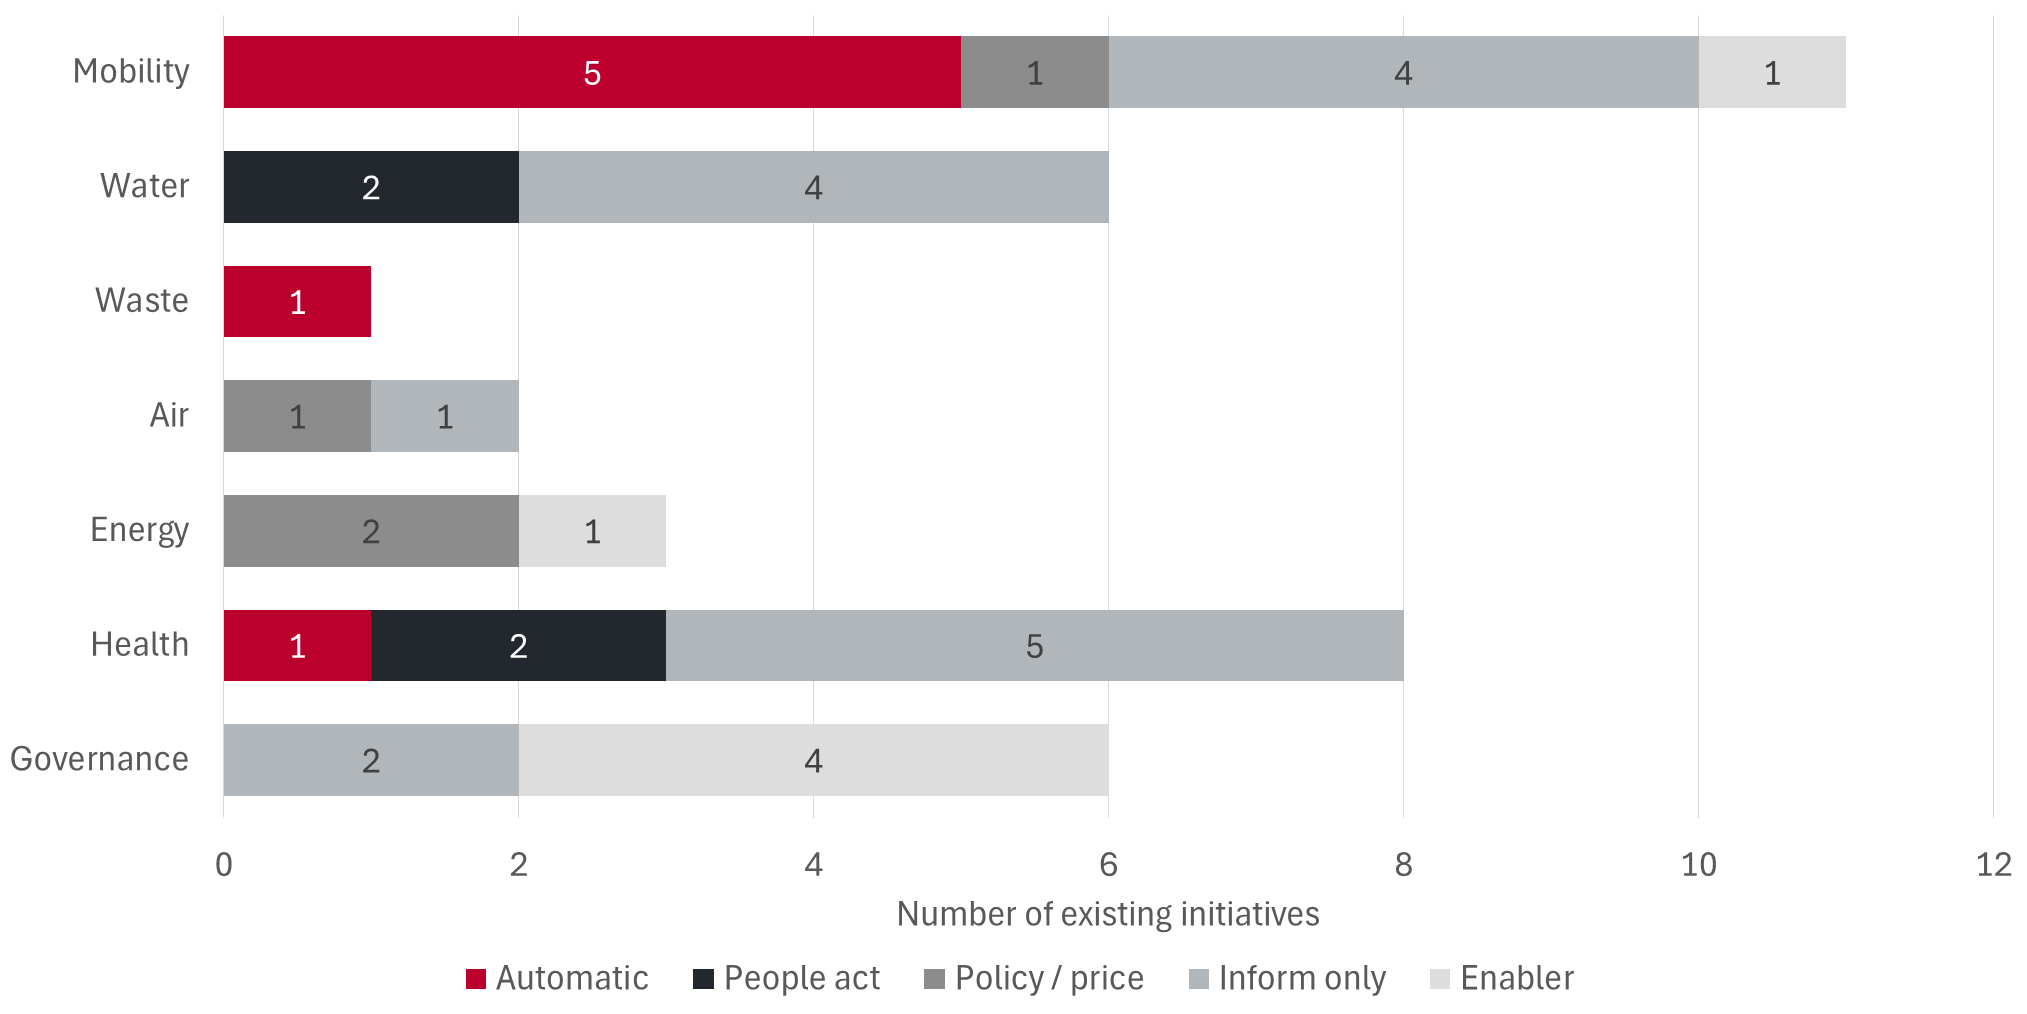
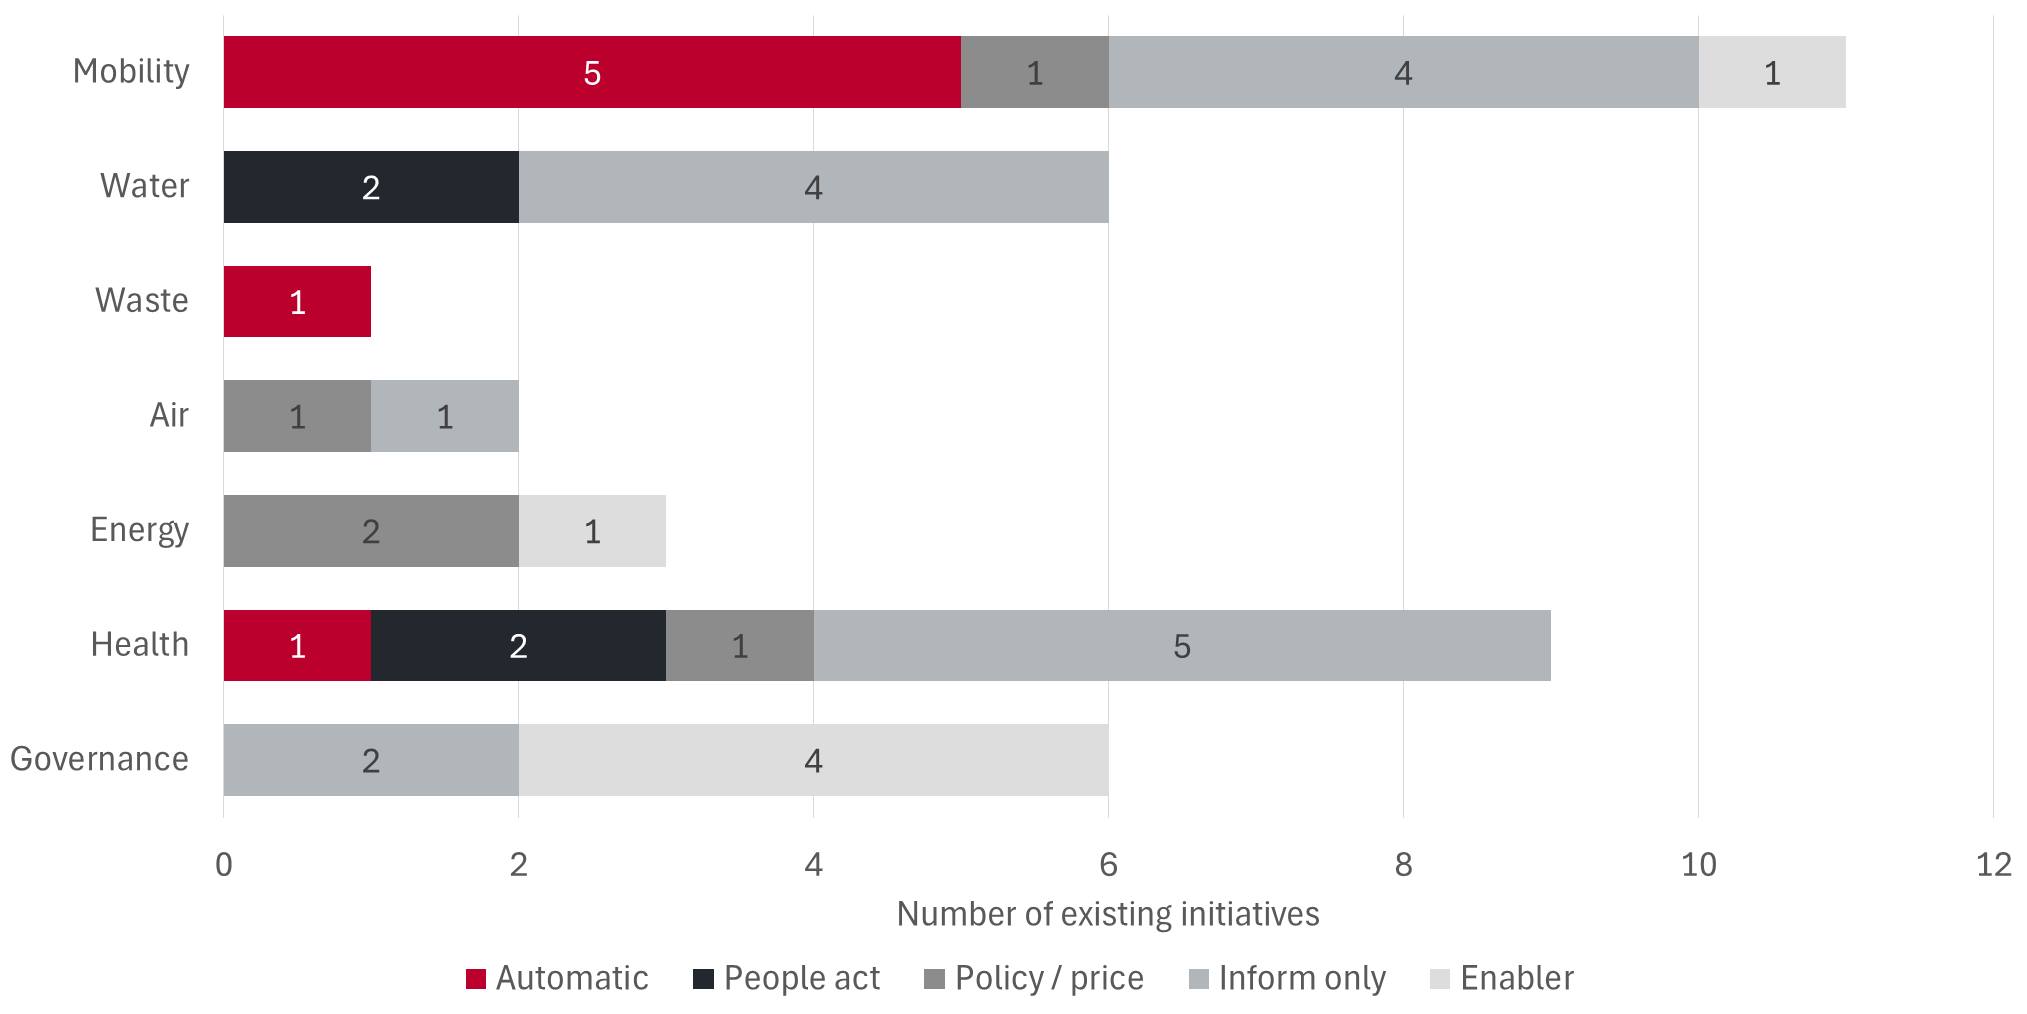
SmaGO loop diagram; initiatives chart updated with Hachi-san-Po; README lists all three diagrams

Changed region(s): [[0.6838, 0.5809, 0.777, 0.6726], [0.3108, 0.5809, 0.404, 0.6726]]

diff --git a/README.md b/README.md
@@ -30,12 +30,13 @@ All transport data is from [ODPT](https://developer.odpt.org/), Tokyo's public t
 
 **Diagrams and figures**
 
-- [`diagrams/`](diagrams) has the two diagrams from the report, drawn in draw.io. Both open in the browser, no account needed:
+- [`diagrams/`](diagrams) has the three diagrams we drew in draw.io. All of them open in the browser, no account needed:
   - [ODPT as a city platform][odpt]: what Tokyo's transport data platform does today, and the missing link back to traffic signals.
+  - [The SmaGO smart bin loop][smago]: how the bins sense, analyse and act today, and the missing link to ward collection planning (our proposal P3).
   - [Our proposed loop][loop]: sense, analyse, actuate, feed back, for delay-aware bus priority.
 
-  `make_link.py` turns a `.drawio` file into a link like these, and the two `*_link.txt` files hold the links.
-- [`figures/`](figures) has the figures exactly as they appear in the report. The three charts were made in Microsoft Excel: open [`charts_tokyo.xlsx`](figures/charts_tokyo.xlsx) to see each chart next to its numbers. [`chart_data.json`](figures/chart_data.json) has the same numbers, counted from the report's tables, and [`excel_charts_tokyo.ps1`](figures/excel_charts_tokyo.ps1) is the script that drew them in Excel.
+  `make_link.py` turns a `.drawio` file into a link like these, and the `*_link.txt` files hold the links.
+- [`figures/`](figures) has the figures we made ourselves, as they appear in the report. Photos, maps and screenshots from other sources are credited in the report but not copied here. The three charts were made in Microsoft Excel: open [`charts_tokyo.xlsx`](figures/charts_tokyo.xlsx) to see each chart next to its numbers. [`chart_data.json`](figures/chart_data.json) has the same numbers, counted from the report's tables, and [`excel_charts_tokyo.ps1`](figures/excel_charts_tokyo.ps1) is the script that drew them in Excel.
 
 ## Credits
 
@@ -44,3 +45,4 @@ Data: ODPT and the Tokyo Metropolitan Bureau of Transportation, CC BY 4.0. Base 
 [kepler]: https://kepler.gl/demo?mapUrl=https://raw.githubusercontent.com/XxAG17xX/tokyo-smart-mobility/main/kepler/toei_bus_delays_20260930_0722.json
 [odpt]: https://app.diagrams.net/#R3VvbcuI4EP0aHkn5goE8cs3M7ORSQ6q25lHYwlYhW15ZTsI%2B7Ldvy5KNAWciCDAMc0mgJUumz3GrdVq03FH8tiAUtxwrYploueOW46A0vQkICjmKs5sECzC13EnLGkAv%2Bc8d6VZ4QwJ1DQtS0aZohXkmuztWgmKsmh7HT89gQJn8Af99IlbwK6VILBiPt0cv54jf7jhKo3sWYAqW4E2NZjuWpWYIVsrSLw0hL%2B%2FGXhtm5F99H3bZLScBzjY6CsaoIOmm0WdJgn2xYUOcs9fNbgtGN2dNUYh3DDMf0V3r3yQQkbbafWvd8AWTMNJT97q6IUZlZ23IIhSw15pp14%2BlNzlj4t3mtctHmNIaqnqeljPd%2F9rqY3KciHeG%2B%2BWILcdut%2BFlwSr4PUdJIDkExr1vRl7bBl6rG3hBNNdgaEeKVYkOZ3kSYHmZ3XKHiPuaQB14B08KHTHKeNHVnbpTb9oHeyY4W%2BJay9gae%2BMxtOj5MBf47V232Bq6gvOYxVhw%2BYDoC0qvVWxXb1%2Fr1OloY1Sjje1qI9J8DauhayBIN0%2B1uw7zagzvjurV3qQ7GTR5dTiyLGdctZQPj3MSPzuusaNvz%2BNoHYn%2FbPp2OqZuPZNXM5z8%2BV71PGOydg5z636epWj%2BTrTtUriR4RxehPLFIE0p8ZEgLCnbYOaquerPSwtKEF1luJh6KGdMyhxiAzDwrOwdiZiWoFESJvCa4oVskd6HielAmyGKBfLi4YIlQqNrd%2FT7Gojwt%2BdMjgOi622AaNsNIDZh2Dv5kyHxa47rW%2FjdF257hY9sBp%2FOBUfgIbmmbzeXFun0IgMr%2Fd79J2eqg%2BtNu92eUzepazOS%2BJIXLjjdukfSz45l39buS41aznQFjGlMBn5PLJWMaV6gthjzgMUr48tmulwBJp2uISbeWTBpXt62MJnhJGPc7AmGAWX4vQKkvFtDpLonWDLLzQ2qL4DVVueQLQ6MZBsEbJSqWTMzuO8YC6U8ADdsycVav%2FyJIsY%2BSJNeIyLwLEW%2BbH2FvfwmQbbzpuJPU950Oxi4g%2BkWVY6U9Fe5e7kGW94uJ%2FoNnOif%2FOkFjJyP8fzBcoGVmgJqBTdE9QG9EEFiDeY3xvMAJVcAp3vRcLofwzkCn%2BBM7PWI3pOEwAXPbLliMv8ZK1R9UKoCkoSFRMWxjzKRXQHE3kVD3PkY4sdcRni1jyGGEM9zKXyBEIpWWbX1iWUo382g%2ByKSw1ocp4wDk27PBPov1JltGpxwje%2BdmR5Gi3xc2yV9ao2HgdrI9w321b4PIItCck8COSvxMeyPDPkWoyRHVEUhzmCiolc5iGSTTPWttPggARJIvnflRxnJ0DP8CT86N5YKRHrPN0QZ8ZVlFCFKcRLiNkvo6tz8PEMa4TToMb3%2B8VLL%2FShjkBZqjL7NHh9kovf01Ywn7FVmrS%2FMR%2FOcIn6NULqOZ6jKeGeA0iAjvHuezszQkxmgQHMqo8KowI2l2RVA6HqXDKFrBmH7B0ZU5egmWKYsI3ITqaFMOQ6Irw2HqGwanx2VLWFlIiLzSoKh9mkosP15PPLsS%2BaRQap5NzQNBXOyxKqgzPEVINftXTJynsE%2B8K%2BBXIhBGEKUhblhEHAtZ52P6UhQVBUsxsNriOx997y4GmX3Salofyq1h1F287QJ8iOJHiTaSEiFticzepV1zZG%2FbLPFgqiEfJUJHMvWPKUMBcWhlnXyzV6KGxMRLmpmUHypxPqr0u%2Ba1PfGxNs74XYv03L6p%2FgAgxjk7c8ckUI4ZvsUUZ8ZJio6lKLRPXx2ptXAH%2FBjggoRCtQEv1Kk1F7tVvX6C5Nr1H%2B9nqFccPqKGhDAINsfFsrQ3ZPhOv%2BfJx8QFRq68hmwFBcsUJjkNsAq2KTCRMx4ovRDnmfRFarDlwW2wb5gqLK0gPlLQyFnzHwW6wf7y%2BT790epvvwcff%2F6cHeFWvBlAWqQoM8ERG1f52yf2rTLlwtw3DVI%2FL0zw2pWqPVFLnOwTOmcUHbL4BhxFSzXp5kPK976wkTULW%2FBjCkcyexQsgFq7oiqykH%2F%2FmlcrOK7hX26aAecvKiYrxeE42oHYn2sGm%2BlqBchIuyWLgKURdV8p0hALMuA7B3vvGTPUyhWSIAWFM6XH0ZpbO%2Bgh5NgIA%2FQw7s5ZKxLcCGYpoSWiO0gow97vX%2FkFwc7h%2B23XA93wHLu4%2B2sSiAeYrG5%2BdqFiYPUJcjL5hynWzawc4lOW%2B9N604rtczf7zT3Ep22Uaur%2B6082HEavxk93zrBJ1mmgj0lyfLAxzxEBsd8t2cyqi0VdXIoP4K0XdQiYe2aYV%2BflHJvOk2l7Vr0358CpsuAZMJMzwkl9oiFDJbXydq6XeB%2BVxKDE3qYDkHICYuFrWmxOox866MIG8zzxSeJV1wKbi3k%2F7JDykiizpbokZ%2Bkob7G9ZzNony5ntVZrEZdc7q6vSOcR4fMA%2B%2BwdFb4S%2BdzWicL8AumTNW1oaCCq%2Fr5WoktKuGKnEqIW2CVy%2BCs1FydPvyY4bTaacsJpO%2FhRLLT3f%2FwZJ029i69qtB1%2FC8W9KwGPc1qSL2dzpGifNHnnW%2BrlcxYfy9w82uJ0Fp%2BM1E16AuKbzgWlv8B
 [loop]: https://app.diagrams.net/#R7Zptc5s4EIB%2FDR%2BTwRAT5yN%2By3Xa9DKX3NzcR9nIRmMhUSFi%2B3797QqBweCaZJrWnTbJOGb1Lj27Wq1w%2FEmyWzFOHc%2BNZaYdf%2Bp4HknT64iRtSJJdi2oBpHjzxw3hFz4509sKjywqCiTKpnKjPArLmWKBTxXkIQWiVPKyf6KbInChhZ5Bp%2BpYlIxvT%2BuvGwi2d0rksYPMqIcJNGuqGowcN2i%2BmhfSEalYK3KzgwOgif2n%2B3EoMyWs4hmjYxaSq5Z2hQupRB0qRsyopTcNrOtJG%2B2mpI1bQmeloS3pf%2BwSMfH48KEPyhbx7bp25FNSEiZ2QqymERyWxO157GcTSWlPpl8mPIJ5by2qLYdx5u%2Fvmw1TEWFPlHd62rUTCOoWMUL4bmdTscLONQ%2FXkloBleNS2VSgi85jnnseP5wHgS3Xl0UrPH%2FXzQybU2RVrqFT87EBuncUoMoMk2v4eu9ovsqa8rokmKuZ7nZS8SCK0oizKBykV2XXYKBFr0qWrOLpvclCZruUB7rhINgAF8JZ2sB3zldYcoLVZoBOaEVa1CtYqQW68HIPk%2BqYfvwe%2BvNqvawDro7uSaDr3HT0kgqE6oVDtTWWK7pvqlj2xrYbgl2XIM6sDJilWld1dwXOMhjCenBkuMNrq6QDhi3sUHw9Gqi43xxkr5FucifiKaGDMpKU1fBsDiQYEupUuI73hhVnAksRWMmkEzNYFLIAqk%2FLtAH%2B7k3CSbzNvY%2BjHAIheSq6KJhmWA17q3jhziqSUcXcV6eKBh3F34DM08jmSs0xUQTx7vryz1MKxhbeBhvY6bpU0qWmLIFe99UB9iZeBfZmVZyQ7tSjnRhbn6OdObmO%2BnGzaCpHL7b1g7P71COwfDHaMeqWM1Mww6UvVFJMioyel5NBmhUn2afn2b99MPqE2cvBw9iRY35fmHAnvvn9PG5XQzMN9NMolJRWGxcHFwU2PDhwwCdnVYtVgrojmU6M8UisjfK4cqUiuKbwLo2uD1UA2En0VcyFxGNLN%2Bvw7%2BCuYX%2FXRj64SGldCu8I%2FD97wW%2B2wT%2FroP7YRf37jfn%2FhXkEkH4vg%2B7HrIbfg4%2F%2FduX3gj938p9QKuOVFAkqLC7Ge7srWKwGxjQa9uALXwWWfRm%2FLDwYbTU%2B9SoitldrJIvFUv1%2BzN7OwtmYRez44nretMWs34Hsz%2FSwbkNjow47pw%2FAcxLnRtP5BzMvoF58vx3%2BNwT5lRytjQAg1NKeN2rgjOhMIaStItlsVS6sJhLOGAaHteq0AHwg2HbMHa6rzE2cD8%2BPz4VVT48omaFH6puZb%2FN8SlzPAx%2BCnuM2%2FuCLDfnGb5BhuezGSIwDicfe3KcLzjLYnRf0TwbbI3Xje4El2vrIB8XK%2F2IQ%2FzCBWXrx25llTkt1ETspUDFIXnEcB9gvy1yD5wvxiD38qqLgFgZOnqbV80HLS2wrnDp4WYtSGoIUBGF2Dw8LrgElTKiOeNlhhYLNmLSZcKWuXqp2KuD4bXBqKrhZEH5GLR5bdjtMqPFAGjUip4dkQODBBdmSVvnDU3UmuqWM%2FcG0hQYBI3z24j9dWADdfsTmFrj3ZUZUsnMLmiTk90jCg4Aj0bDZtDkphkYM5wVlZZPtd69o8XlXouy4qTViE5w41cc2zpBibK2s%2FQLviWPJ2zTa3msqnk3HhuniAaRB4%2Fs4okMBpdCpN8isrbvrmFCICw6%2F0VNX8PHr6NW95wujrVBcKms3bRYExigxwkhERPrzFy5AEot47eNqY6psg6cu5Vqg%2BebX9IANt32OpbVVn3xTL7vjtzLawTlluqt7mJZ%2BNzBKSwbgUj%2Bl5xEKk%2BLq2DK2a4Z0P%2FKQepegsMvEgNFWJ3Fq2M4Hs%2BfH%2B4xYAugmatfxqVu1%2FNBRHlmJjSsyl9l%2B0zTxBwqRGQ6e1wsXJKIJhAENsXg4oRCaDaiZn0pjp50n84m4Df%2FB0gW5eCqmKqsHtstD2VHWgyXril%2BFVL3uMHIancOxwcxfz6cj7p0fepOh9NphzIfXQ9m0CzYpU%2FmaQp29DuFxG6bJ7CgK55wd3HxBEvdOZ14rMPZAL%2FgRObmgs%2BZ3Tkj3xlP4crM6M9HJrKYLWNnMnRG0%2FKO4UEKYOxKkA05JN0VmCUUXqNA0ILrm4Z3jeGMiUzS4nWJIkKQAAqxuRtcSSO2sYqVxn0HqyNrAl3QlROeMG5ccniPAQDjZd%2BvfxN97ha7C2jf%2B1FAmzwn3t8ot6LDmzLN93QgtXxVp0iwBcwrP0byPw%3D%3D
+[smago]: https://app.diagrams.net/#R7ZpZb%2BM2EIB%2FjR5j6PCRPDq2k6LYboL1Fm0eaYm2hFCiStGx1Yf%2B9s7wkCXLXh%2BIkxrdzSIRh7fm43CGlBOM0vU8YdTx3ZgX0gnGju%2BTPO9ECVkIkhadjEoQOcHEcYdQCv8HI5MLiSTSdYqULPgN4zzH0r6bkZTqnGlKHp9AAiUENOXOkgx%2B25L1dm3r6fpRkDz%2BjUeUgSRa64Y8z3V141GpJT0rWAg7Dm8jmCZ%2FmyF4ttgyiWjRKCg5ZzLJm8KQZxkNZUNGhOCrZrE5Z81ec7KgLcE0JKwt%2FSOJZLw9L8z4hSaL2HTdvTUZKbGFjaCIScRXNVH7Pdq3KTiXe7M3r3xEGavp0%2FTj%2BA%2Bn162mKWgm9zR3WosykcgoNvFG2NK8TsfvM2j%2Ffs4zqbTGuFA5%2Fb%2BWOOd7xw96D%2F3%2BwK%2BL%2Bgv8%2ByhoqTqD4u4qJtiAJTXiAAmiEZGyAw%2FfaFQVlTGulTQpiiRbIMdJ9ootoDQXPOcFVdO4fQ4c%2F65jhwgT16PUvRslytKSIeka5bFMGQg8eCQsWWTwzOgcc96okAmQNDRiCctHz9xg7t2a9Kh6DQH8DPxJ1R%2B2Qdd7deT9iKPWCqU8pVLgOzQtWh2XDY2vapy7lvO4xnhgZMSsrUXV8LH8QRkDzBFoOb53c2OV6%2FiDorJFLshPRr2gWbEfzJnVt4cYTSdfp5MaELMNDaa4sBIwydgLtg66hO7QZFISxtZ%2BblcoOCNC6TNTNjPnKypwbolsF7aSxAroOilksXkr1RCTvcAKvswiGhlYV3Ei6TQnIeauwHg3Wcbp1LB8UP9w1FLwV1rLuRsOg%2BEmxxpJfwv14IOQ7jaRrux0DWq%2Fv4PpquD7QX0CkyQjrDyGSh%2BpHH4dfnk5lsuQ8SXawogU8YwTgc9SkPAV4aGgjHIfoDQlCSsUQ2Q%2Bx1J0zgU1hLoJZs2XOI%2BjaYV35IolroxZWVnmN5pFuGR%2BImwQ9q%2BT4VAuiTyC4UAxPPr%2B%2B%2FD7RG%2B8OeU5Ogt3xyFteQxjrvduAMHaWW0SEe00l2W7LsF6gq6088HAZSw0iOlPo3s2sbfuVRIb8hRUIQ8T24CVLCUH5z4Jj%2BZVmzkdROWCFgXV2zz%2B5iuUrkiBK2e7YgzRChb6p7fGd4QxGhcpYba1d2St8jtbrFU5W55qRed%2FYJsPjgXu7mNd1xZy1GvRZhxHBnsx0ztk9xE6%2BYK8bSm4pj7YM4cY3kJyxnj4qkUP2JYu0NKjCasO2Qy%2FremqJiMzyu7Bd1go1HbBoMdMo1ZUvaV6mBdfipC2fHJJxILKllt0BiqCMlimb82BfIqhoX5L68q5wvEwKuT%2FR9ENR7eh6o33cN2qDlqq1oYf%2FZEEjfNws9hh3AXFbeD61I%2BKn5oRcyFjvuCg2slGet%2FcjcB1kn%2FCs9vpmdQLpszzeF1PlDaRgdZqlTD5Us%2FbVFMpW%2B9MNOv%2Bax3NyjhdEkxoOxiBptGtrArkPMk0Hio7XT%2BjYLML3gXNbbDXazC%2Bo4Y3OFADHvQobKo2nUsum25r2WSUCFZWMeYVLpEK%2BaCGvHcs8sHlkd%2Bz7db84uu2xb0WVIXyh4EpQfGE%2BJqhGpxjRwd1qLyLQNWIqj7cjl7y%2FHn3PYK9ODjzODoPDsefz9%2Benp%2Bmk3G9N%2BVHrPR5njnJSLiKMBnJMjXCE46tIyIxvHQmvnPbd%2B7UdSDcb9yoYw43Am81i9T1maAhxKo7zkpqNRvDAZKlincXNKMCNlhsp4qhCWPl%2B56ZDCb9yXDX%2Brwfua4%2Fbq1PNLN4Nlr1tx3OfuYFTdc9HOcG7ofEuafY3X4L6a1Vo%2BA1zMFpXlm0gVolMm4dEb%2Bnvd7Dg%2F8jHnYY76qZj4%2BZtOm47i160EKlMhjzzaVADQtj8eAIt7h6Hs4Norz61l8FVKcFUZfZ%2FO1u9gmh%2FbtEUEH3kgHRUW4GnAksmTzTm7CVD3kU32wn4E9o43ojaA4M4va8%2B1hb2eynlMPiBGeAN%2FZ5tVz1SOaC40dGwU3XHFlrF0LdyXh1EZ50khksdviLUWlPtQF34B0jsNc56vjkO38tub03%2FHWJPcFPt9OyAfCZTY6PGQz0sPdQmIXc3eFJBA%2B9h9tdlmLsjnvj8Q5TsPUBCAYbsOl9Uamx537O2Xh3x3cd%2FV1n470P8BlUmT2fN9nVtfmQrPkFG%2BTaj9h0hqmgPoZTkn8B
